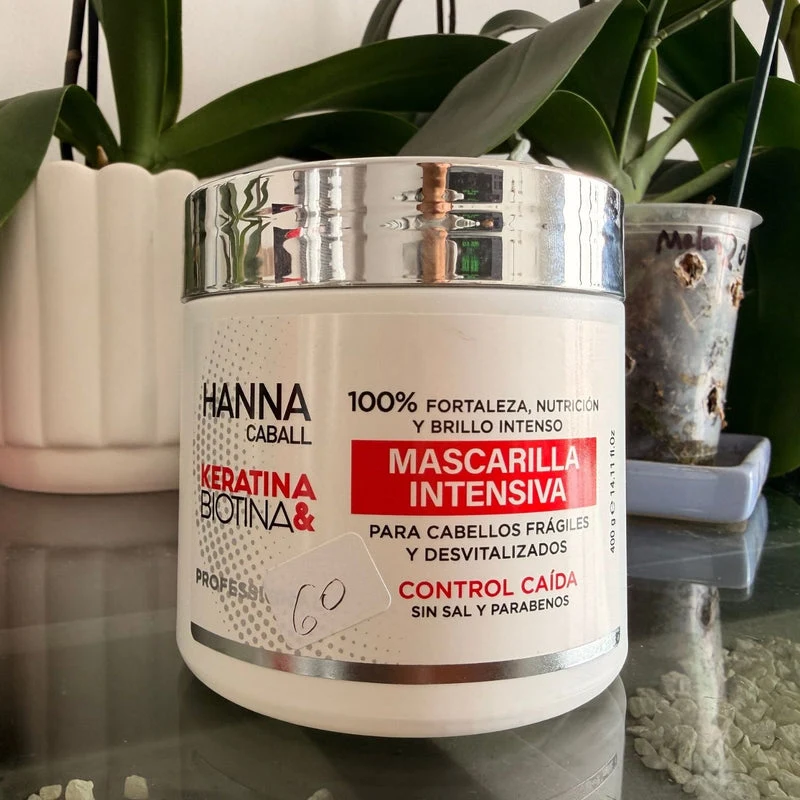
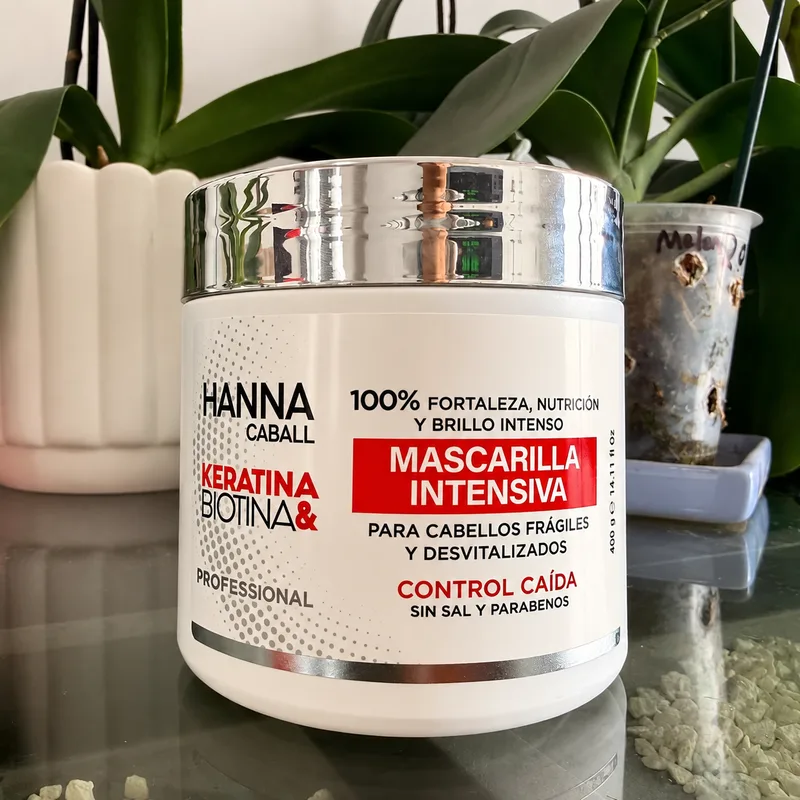
Actualizar foto de Mascarilla Intensiva Keratina & Biotina

diff --git a/index.html b/index.html
@@ -262,7 +262,7 @@
         </article>
         <article class="product-card reveal" data-tilt>
           <div class="product-img-wrap">
-            <img src="assets/img/prod-5.webp?v=20260905" alt="Mascarilla Keratina y Biotina 400ml Hanna Caball" loading="lazy">
+            <img src="assets/img/prod-5.webp?v=20260924" alt="Mascarilla Intensiva Keratina y Biotina 400g Hanna Caball" loading="lazy">
           </div>
           <div class="product-info">
             <span class="product-brand">Hanna Caball</span>
